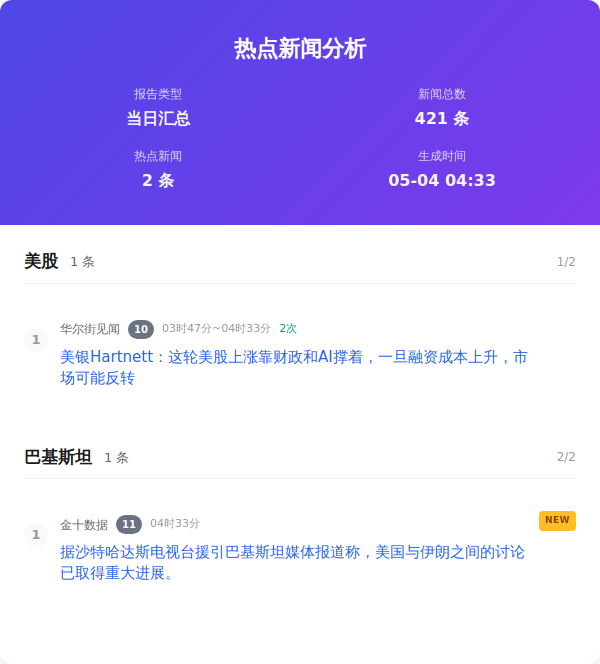
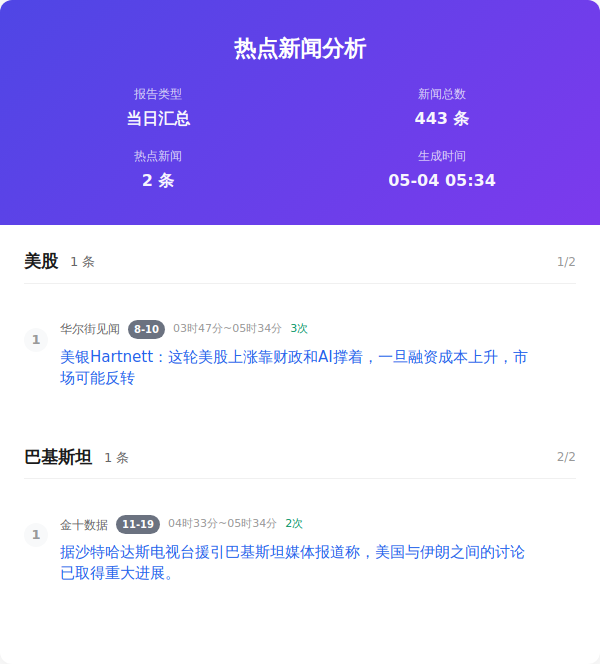
Auto update by GitHub Actions at Mon May  4 05:34:17 CST 2026

diff --git a/output/2026年05月04日/html/当日汇总.html b/output/2026年05月04日/html/当日汇总.html
@@ -357,7 +357,7 @@
                     </div>
                     <div class="info-item">
                         <span class="info-label">新闻总数</span>
-                        <span class="info-value">421 条</span>
+                        <span class="info-value">443 条</span>
                     </div>
                     <div class="info-item">
                         <span class="info-label">热点新闻</span>
@@ -365,7 +365,7 @@
                     </div>
                     <div class="info-item">
                         <span class="info-label">生成时间</span>
-                        <span class="info-value">05-04 04:33</span>
+                        <span class="info-value">05-04 05:34</span>
                     </div>
                 </div>
             </div>
@@ -383,7 +383,7 @@
                         <div class="news-number">1</div>
                         <div class="news-content">
                             <div class="news-header">
-                                <span class="source-name">华尔街见闻</span><span class="rank-num ">10</span><span class="time-info">03时47分~04时33分</span><span class="count-info">2次</span>
+                                <span class="source-name">华尔街见闻</span><span class="rank-num ">8-10</span><span class="time-info">03时47分~05时34分</span><span class="count-info">3次</span>
                             </div>
                             <div class="news-title"><a href="https://wallstreetcn.com/articles/3771507" target="_blank" class="news-link">美银Hartnett：这轮美股上涨靠财政和AI撑着，一旦融资成本上升，市场可能反转</a>
                             </div>
@@ -398,11 +398,11 @@
                         </div>
                         <div class="word-index">2/2</div>
                     </div>
-                    <div class="news-item new">
+                    <div class="news-item ">
                         <div class="news-number">1</div>
                         <div class="news-content">
                             <div class="news-header">
-                                <span class="source-name">金十数据</span><span class="rank-num ">11</span><span class="time-info">04时33分</span>
+                                <span class="source-name">金十数据</span><span class="rank-num ">11-19</span><span class="time-info">04时33分~05时34分</span><span class="count-info">2次</span>
                             </div>
                             <div class="news-title"><a href="https://flash.jin10.com/detail/20260504033129070800" target="_blank" class="news-link">据沙特哈达斯电视台援引巴基斯坦媒体报道称，美国与伊朗之间的讨论已取得重大进展。</a>
                             </div>